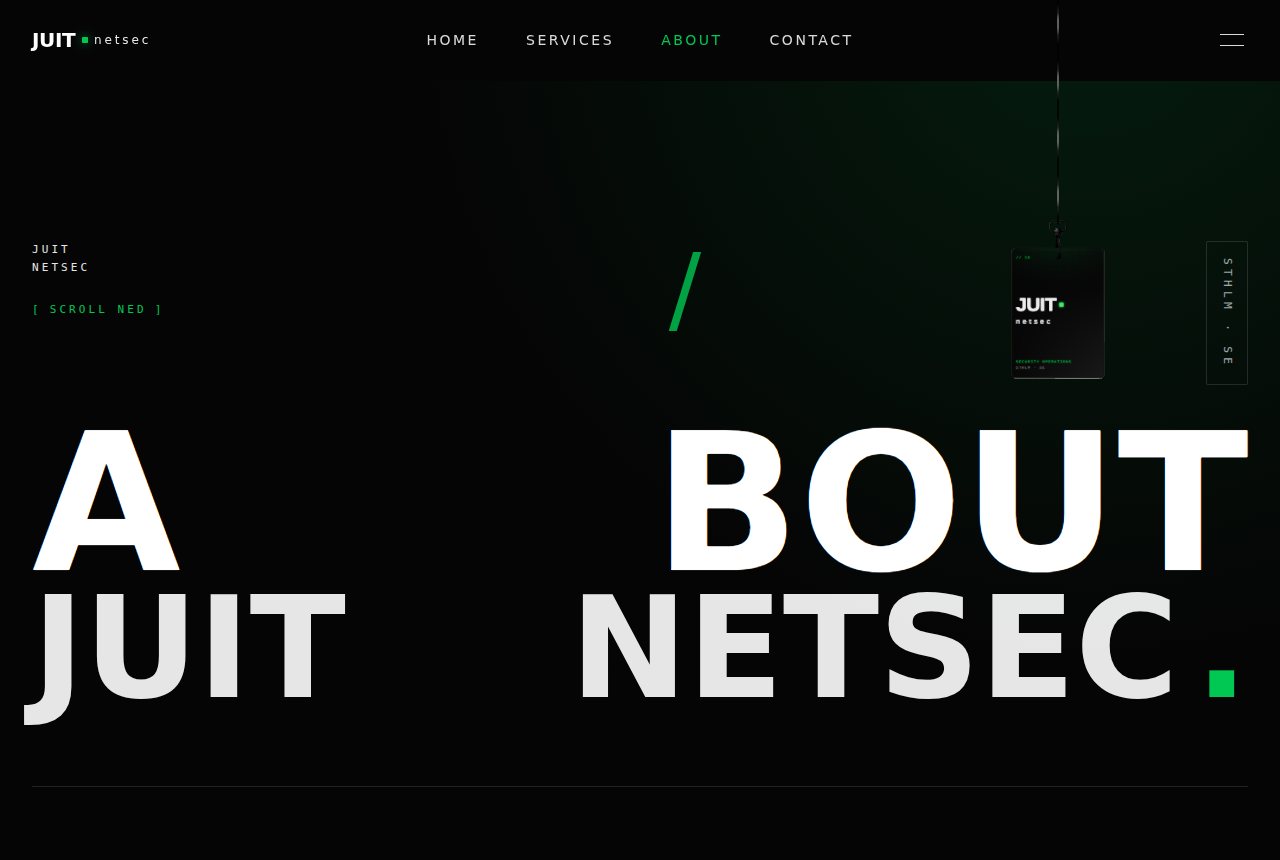
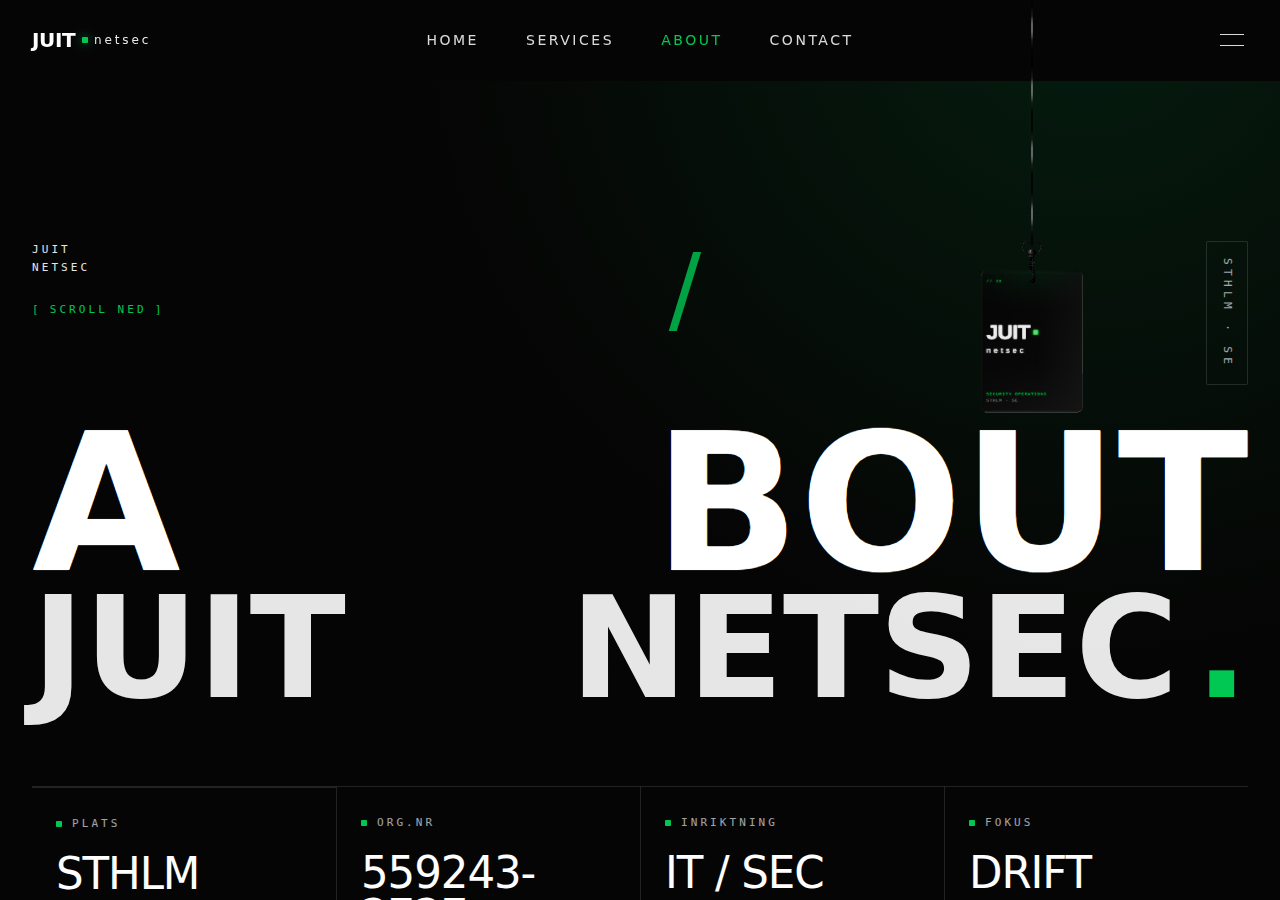
Clamp badge drag so the card never clips, and enlarge the area more
Two fixes for the lanyard badge on /about:
- Clamp the drag target in NDC (DRAG_X/DRAG_Y_MIN/MAX) so the card can never be
  pulled closer to the canvas edge than its own size, no matter how far the
  mouse goes outside. The card now stops inside the frame instead of being
  clipped by the invisible walls.
- Enlarged the draggable canvas 300x480 -> 360x600 and zoomed the camera out
  (z 26 -> 30, anchor 4.2 -> 4.8) so the card keeps its small premium size with
  even more room to swing.

Verified: dragging hard to all corners keeps the card fully visible (no
clipping); CONTACT and hamburger remain clickable at 1280/1440.

Claude-Session: https://claude.ai/code/session_01KWNApueSH4xGrLbCnQC4bA

diff --git a/src/components/Navbar/CompanyBadgeNavbar.jsx b/src/components/Navbar/CompanyBadgeNavbar.jsx
@@ -36,8 +36,16 @@ const BLANK_PIXEL =
 const FRONT_UV_RECT = { x: 0, y: 0, w: 0.5, h: 0.755 };
 const BACK_UV_RECT = { x: 0.5, y: 0, w: 0.5, h: 0.757 };
 
+// Dragmålet klampas i NDC (skärmkoordinater, upplösningsoberoende) så kortet
+// aldrig kan föras närmare canvaskanten än sin egen storlek – då syns det
+// aldrig "klippas" av väggarna, hur långt man än drar musen utanför.
+const DRAG_X = 0.55;
+const DRAG_Y_MAX = 0.62;
+const DRAG_Y_MIN = -0.42;
+const clamp = (v, min, max) => Math.min(Math.max(v, min), max);
+
 export default function CompanyBadgeNavbar({
-  position = [0, 0, 26],
+  position = [0, 0, 30],
   gravity = [0, -35, 0],
   fov = 18,
   transparent = true,
@@ -172,7 +180,9 @@ function Band({
 
   useFrame((state, delta) => {
     if (dragged) {
-      vec.set(state.pointer.x, state.pointer.y, 0.5).unproject(state.camera);
+      const px = clamp(state.pointer.x, -DRAG_X, DRAG_X);
+      const py = clamp(state.pointer.y, DRAG_Y_MIN, DRAG_Y_MAX);
+      vec.set(px, py, 0.5).unproject(state.camera);
       dir.copy(vec).sub(state.camera.position).normalize();
       vec.add(dir.multiplyScalar(state.camera.position.length()));
       [card, j1, j2, j3, fixed].forEach(ref => ref.current?.wakeUp());
@@ -201,7 +211,7 @@ function Band({
   return (
     <>
       {/* Upphängning nära toppen så lanyarden ser ut att hänga från navbaren. */}
-      <group position={[0, 4.2, 0]}>
+      <group position={[0, 4.8, 0]}>
         <RigidBody ref={fixed} {...segmentProps} type="fixed" />
         <RigidBody position={[0.3, -0.5, 0]} ref={j1} {...segmentProps}>
           <BallCollider args={[0.1]} />

diff --git a/src/components/Navbar/CompanyBadgeNavbar.css b/src/components/Navbar/CompanyBadgeNavbar.css
@@ -6,9 +6,9 @@
 .company-badge-navbar {
   position: absolute;
   top: 0;
-  right: 40px;
-  width: 300px;
-  height: 480px;
+  right: 36px;
+  width: 360px;
+  height: 600px;
   z-index: 20;
   pointer-events: none;
 }